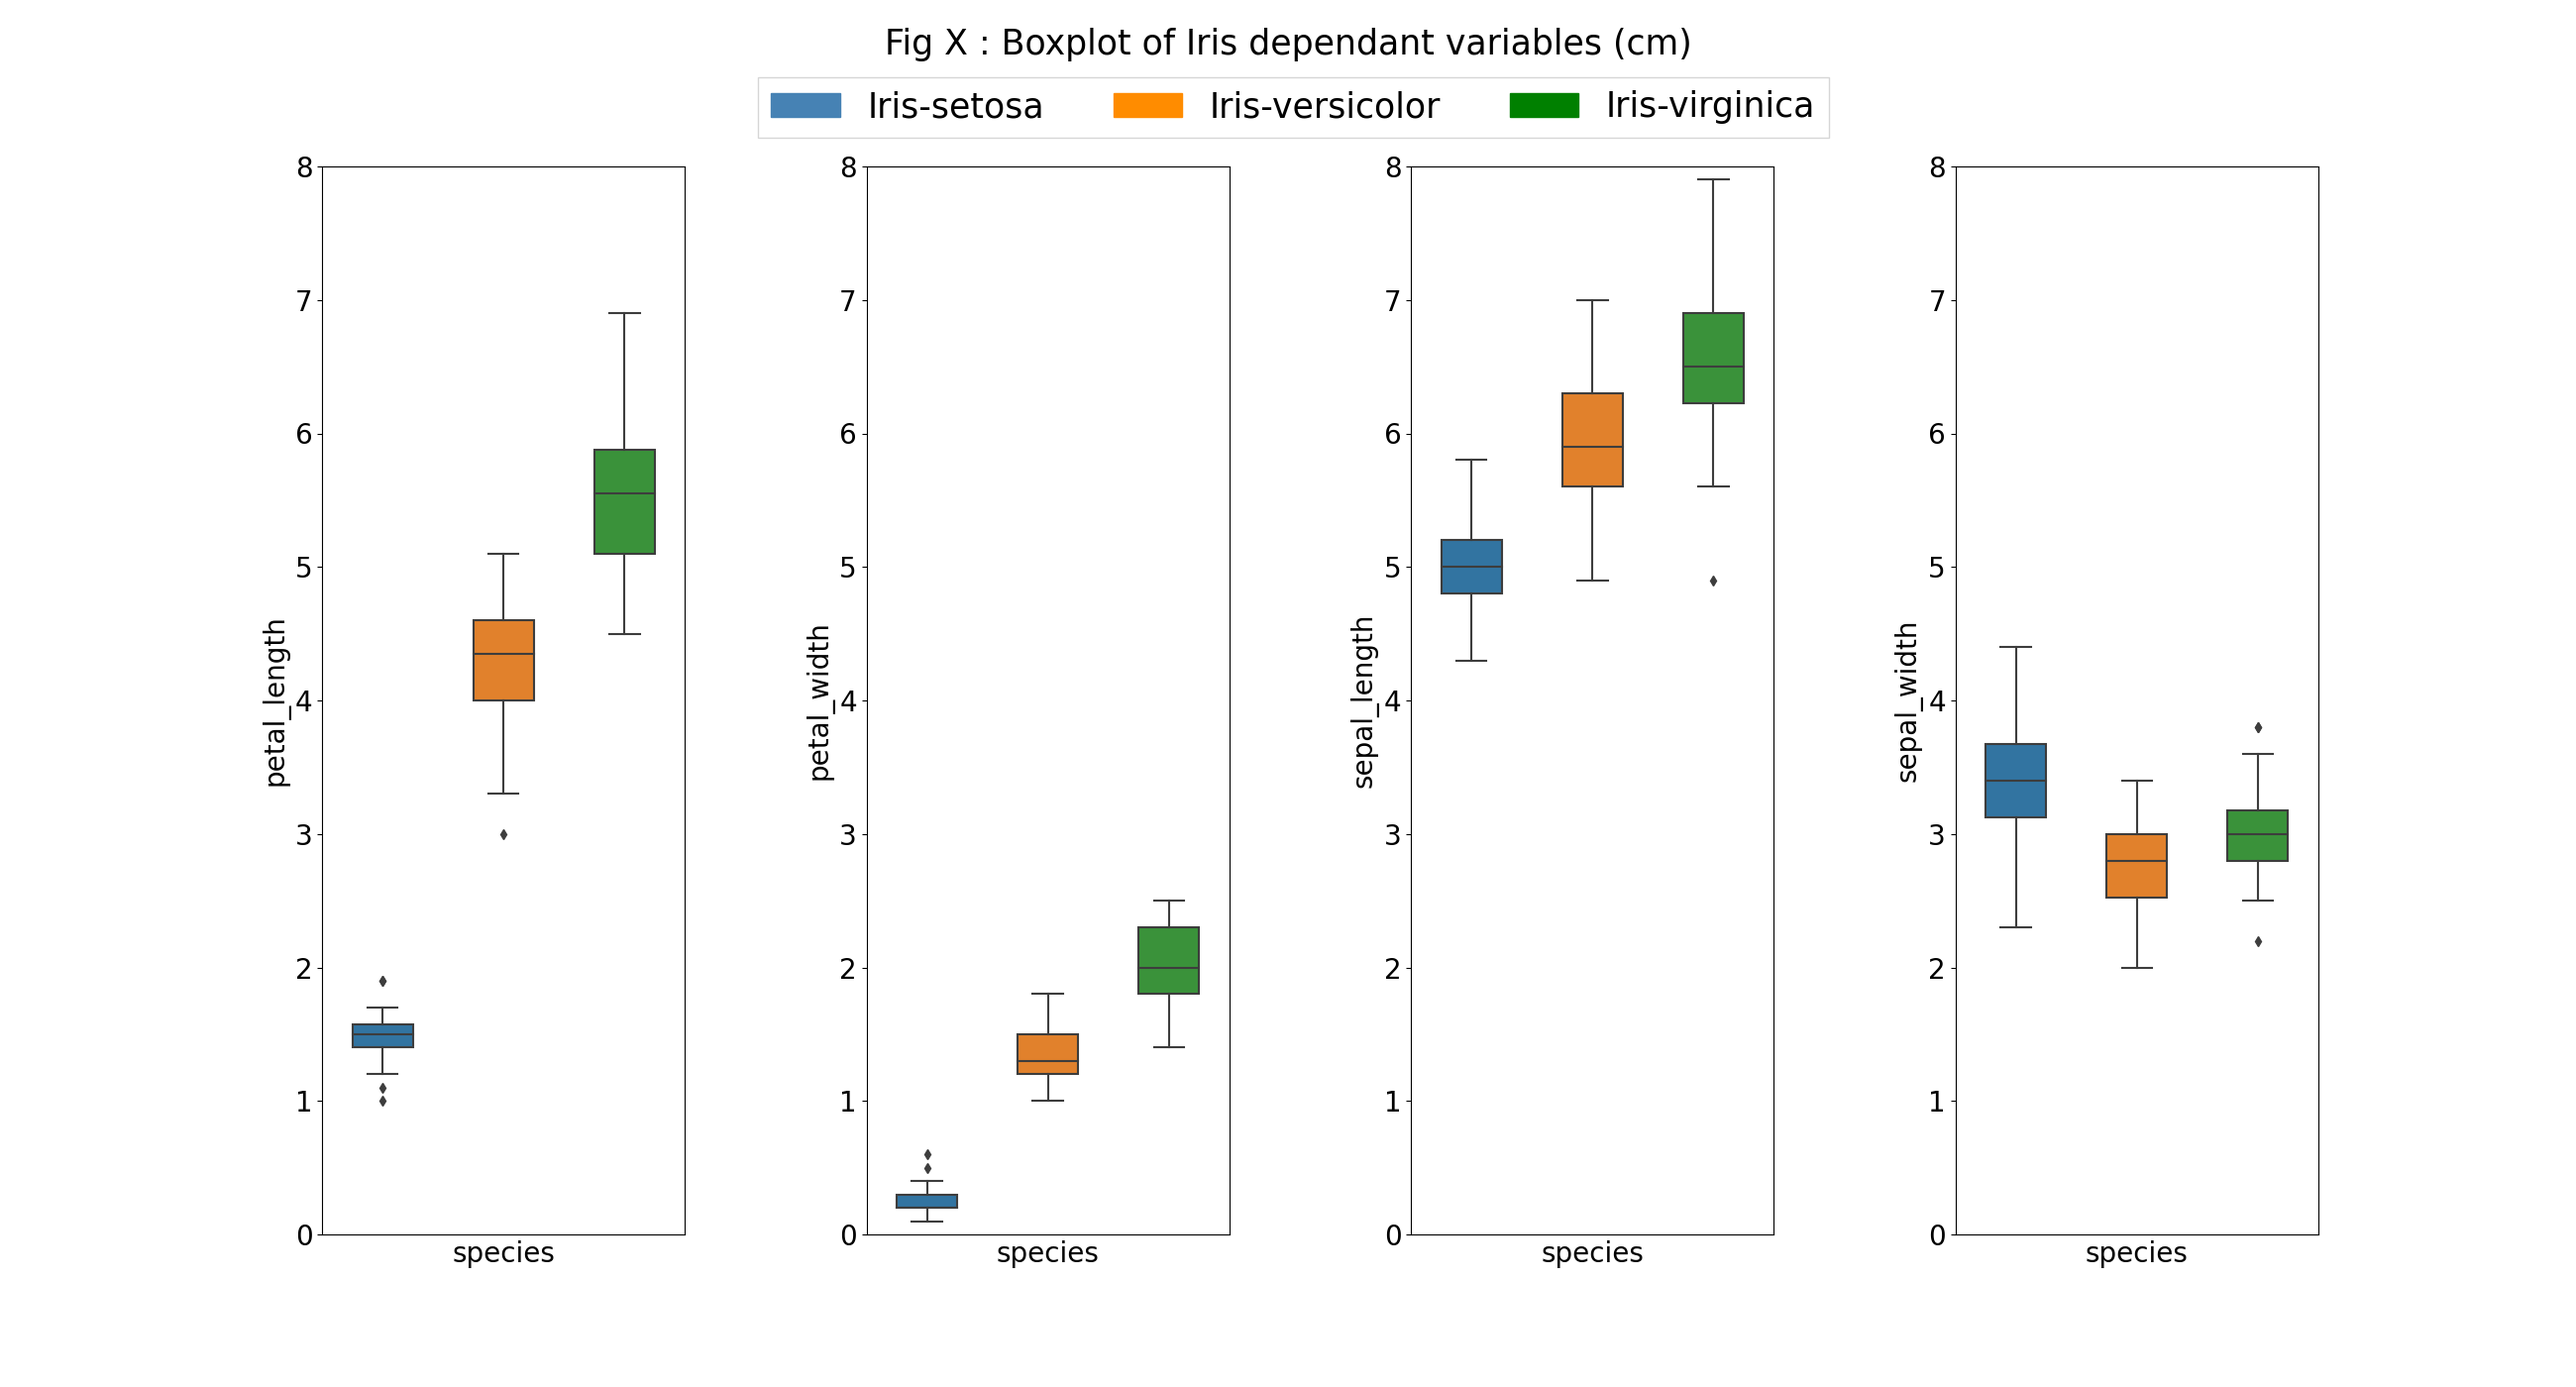
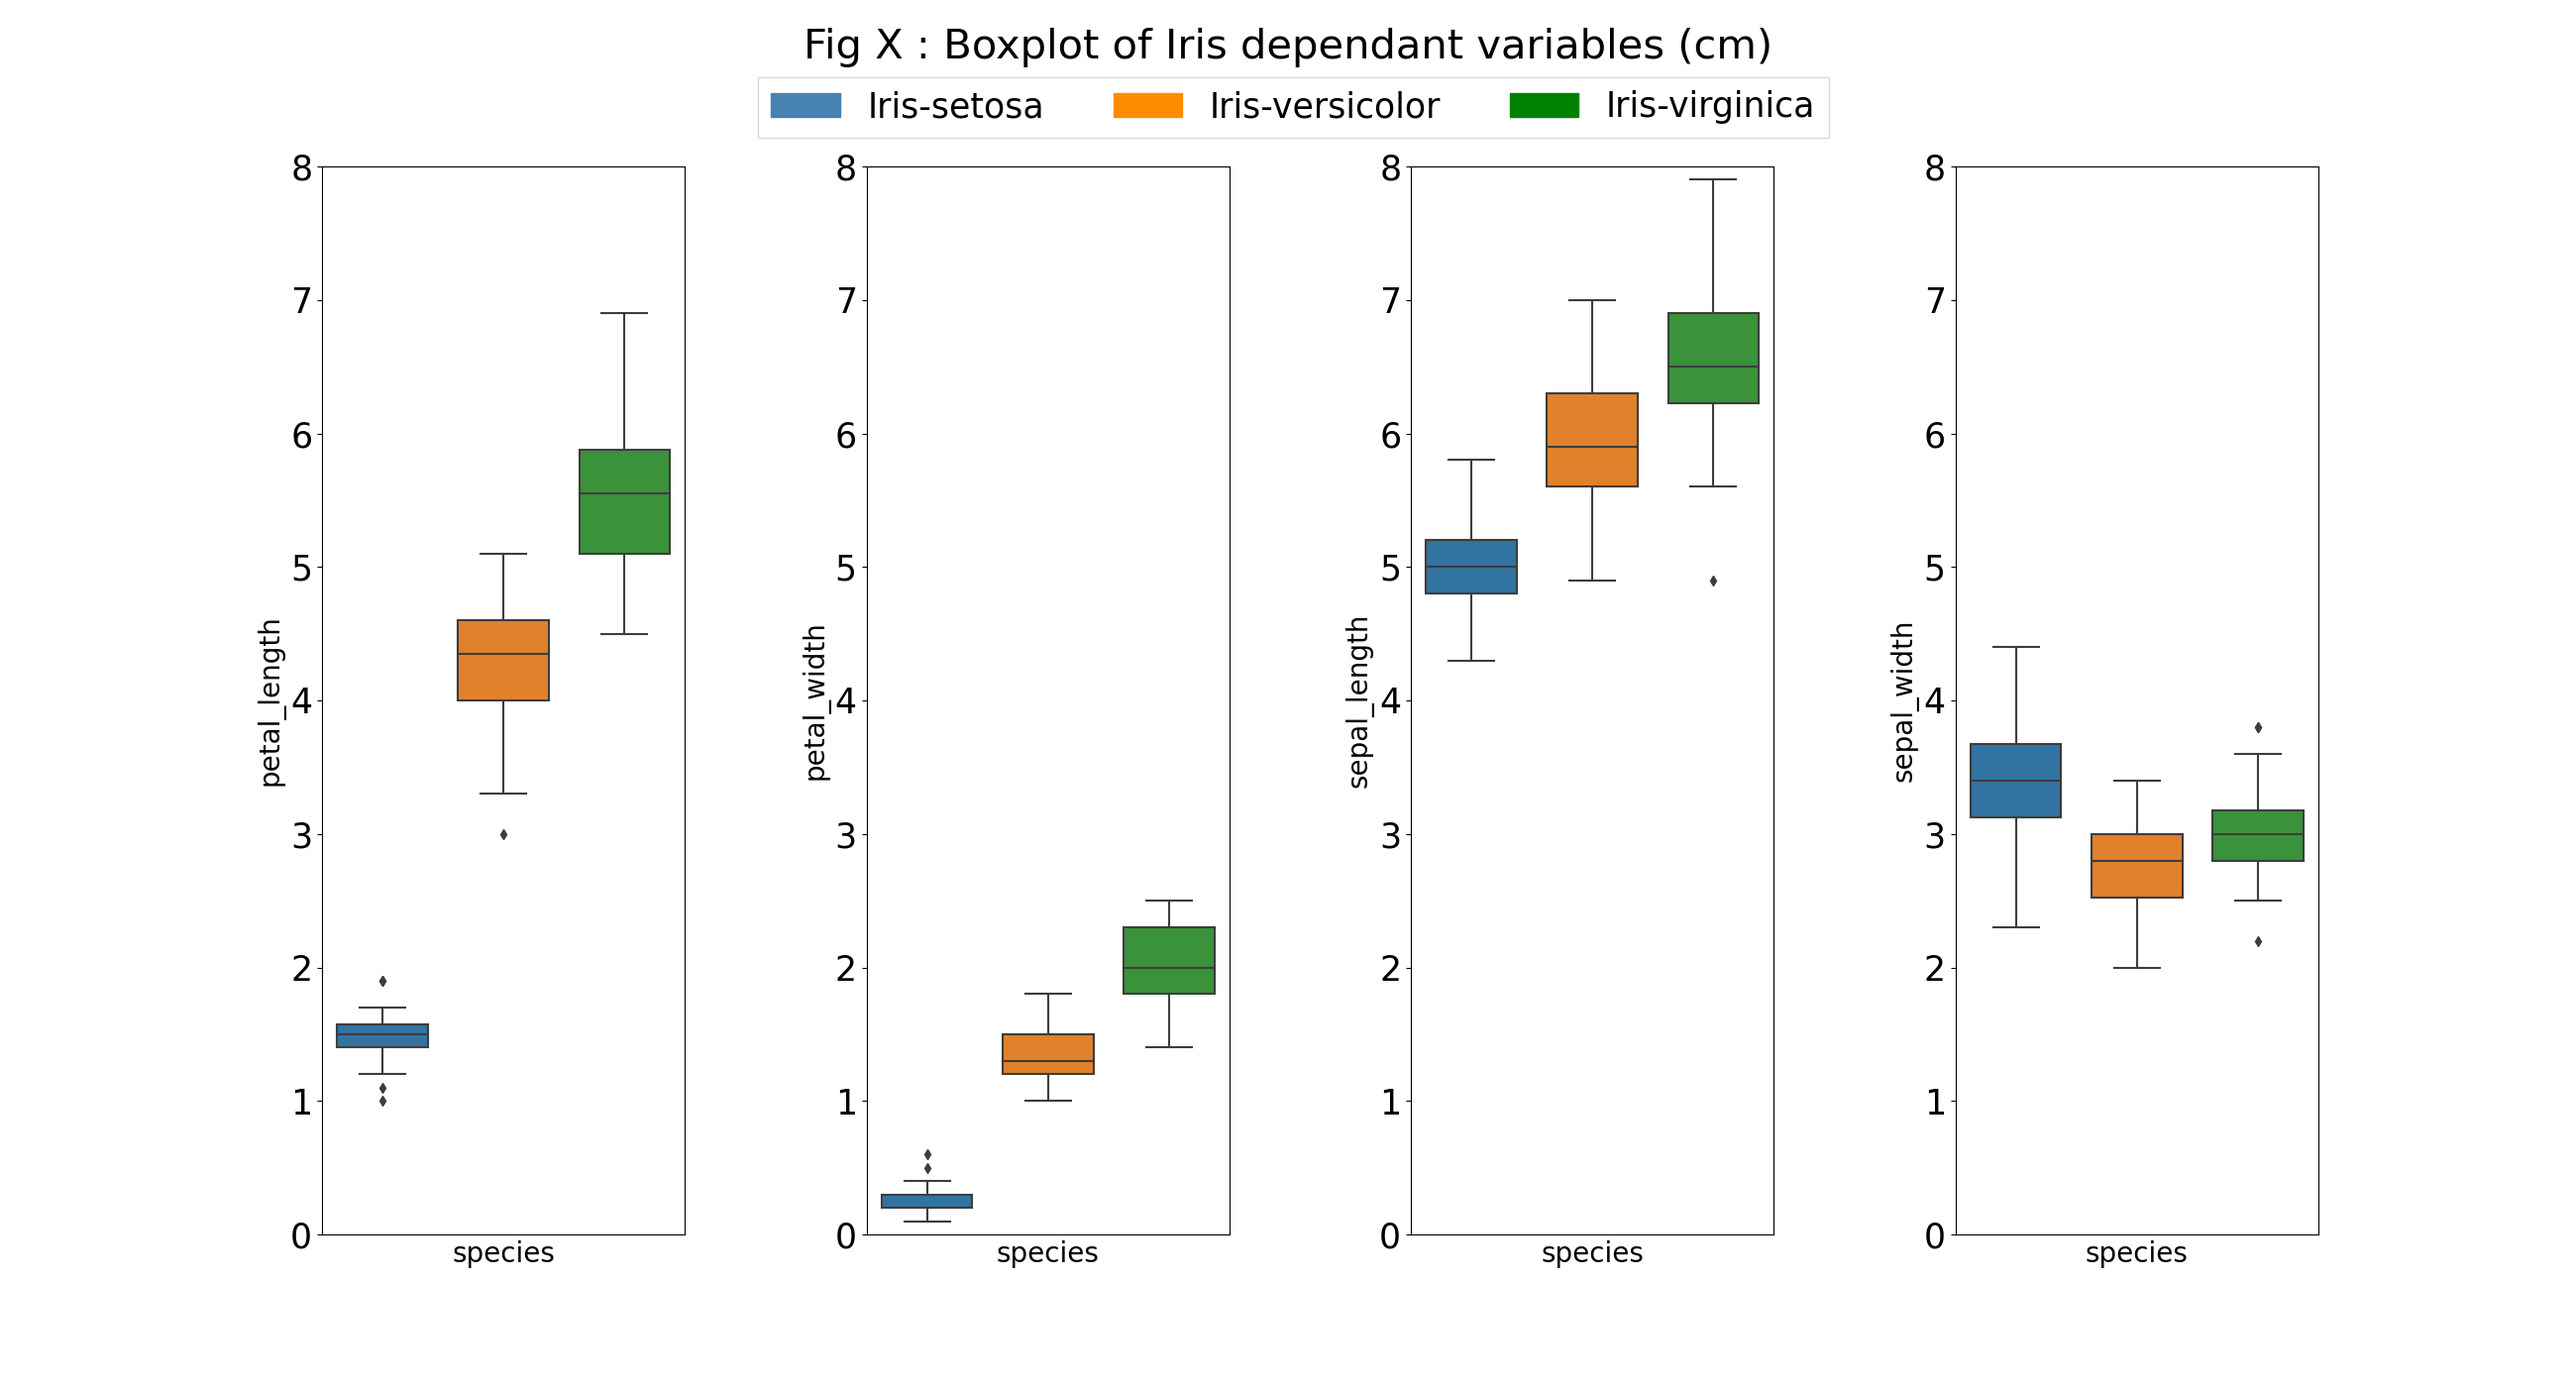
test

diff --git a/Project/analysis.py b/Project/analysis.py
@@ -16,7 +16,6 @@ def read_iris_dataset():
 iris_df = read_iris_dataset()
 
     
-
 def summary_variables():
     
     shape = (len(iris_df.axes[1]),len(iris_df.axes[0]))                                  # count # rows on each axis of array
@@ -33,7 +32,6 @@ def summary_variables():
     return shape, data_types, null_count, species_count, desc_all_species, df_head, skewness_all_species, kurtosis_all_species, correlation
     
 summary_tuple = summary_variables()   
-
 
 
 def write_summary_variables(summary_tuple):
@@ -55,15 +53,10 @@ def write_summary_variables(summary_tuple):
 write_summary_variables(summary_tuple)
 
 
-# !delete this if you cant pass plot to function sucessfully!
-#def write_plot(plot,file_name):
-    #fig.savefig('Images/' + file_name + '.png')
-
 
 #Reference: https://seaborn.pydata.org/generated/seaborn.histplot.html
 #Reference: https://www.python-graph-gallery.com/25-histogram-with-several-variables-seaborn
 #Reference: https://stackoverflow.com/questions/42404154/increase-tick-label-font-size-in-seaborn
-
 def plot_histograms(filename, plot_name, chart_title, x_series_one, x_series_two):  
 
     bin_number = 15
@@ -102,12 +95,12 @@ def plot_boxplot():
     from matplotlib import patches as mpatches
 
     fig, axes = plt.subplots(1,4, figsize=(26, 14))
-    fig.suptitle('Fig X : Boxplot of Iris dependant variables (cm)', fontsize = 25)
+    fig.suptitle('Fig X : Boxplot of Iris dependant variables (cm)', fontsize = 30)
 
-    sns.boxplot(ax=axes[0], x = iris_df["species"], y = iris_df["petal_length"], data = iris_df, width=0.5)
-    sns.boxplot(ax=axes[1], x=iris_df["species"], y=iris_df["petal_width"], data = iris_df, width=0.5)
-    sns.boxplot(ax=axes[2], x=iris_df["species"], y=iris_df["sepal_length"], data = iris_df, width=0.5)
-    sns.boxplot(ax=axes[3], x=iris_df["species"], y=iris_df["sepal_width"], data  =iris_df, width=0.5)
+    sns.boxplot(ax=axes[0], x = iris_df["species"], y = iris_df["petal_length"], data = iris_df, width=0.75)
+    sns.boxplot(ax=axes[1], x=iris_df["species"], y=iris_df["petal_width"], data = iris_df, width=0.75)
+    sns.boxplot(ax=axes[2], x=iris_df["species"], y=iris_df["sepal_length"], data = iris_df, width=0.75)
+    sns.boxplot(ax=axes[3], x=iris_df["species"], y=iris_df["sepal_width"], data  =iris_df, width=0.75)
     
     legend_labels = ['Iris-setosa', 'Iris-versicolor', 'Iris-virginica']
     setosa = mpatches.Patch(color='steelblue')
@@ -125,8 +118,8 @@ def plot_boxplot():
         ax.set_xlabel(x, fontsize=20)
         ax.set_ylabel(y, fontsize=20)
 
-        plt.setp(ax.get_xticklabels(), fontsize=20)  
-        plt.setp(ax.get_yticklabels(), fontsize=20)  
+        plt.setp(ax.get_xticklabels(), fontsize=25)  
+        plt.setp(ax.get_yticklabels(), fontsize=25)  
 
         ax.set_ylim([0, 8])
         ax.set_ylim([0, 8])
@@ -174,8 +167,6 @@ def scatter_plot():
     plt.savefig('Images/' + 'scatter_plots' +'.png')
     
 scatter_plot()
-
-
 
 
 
